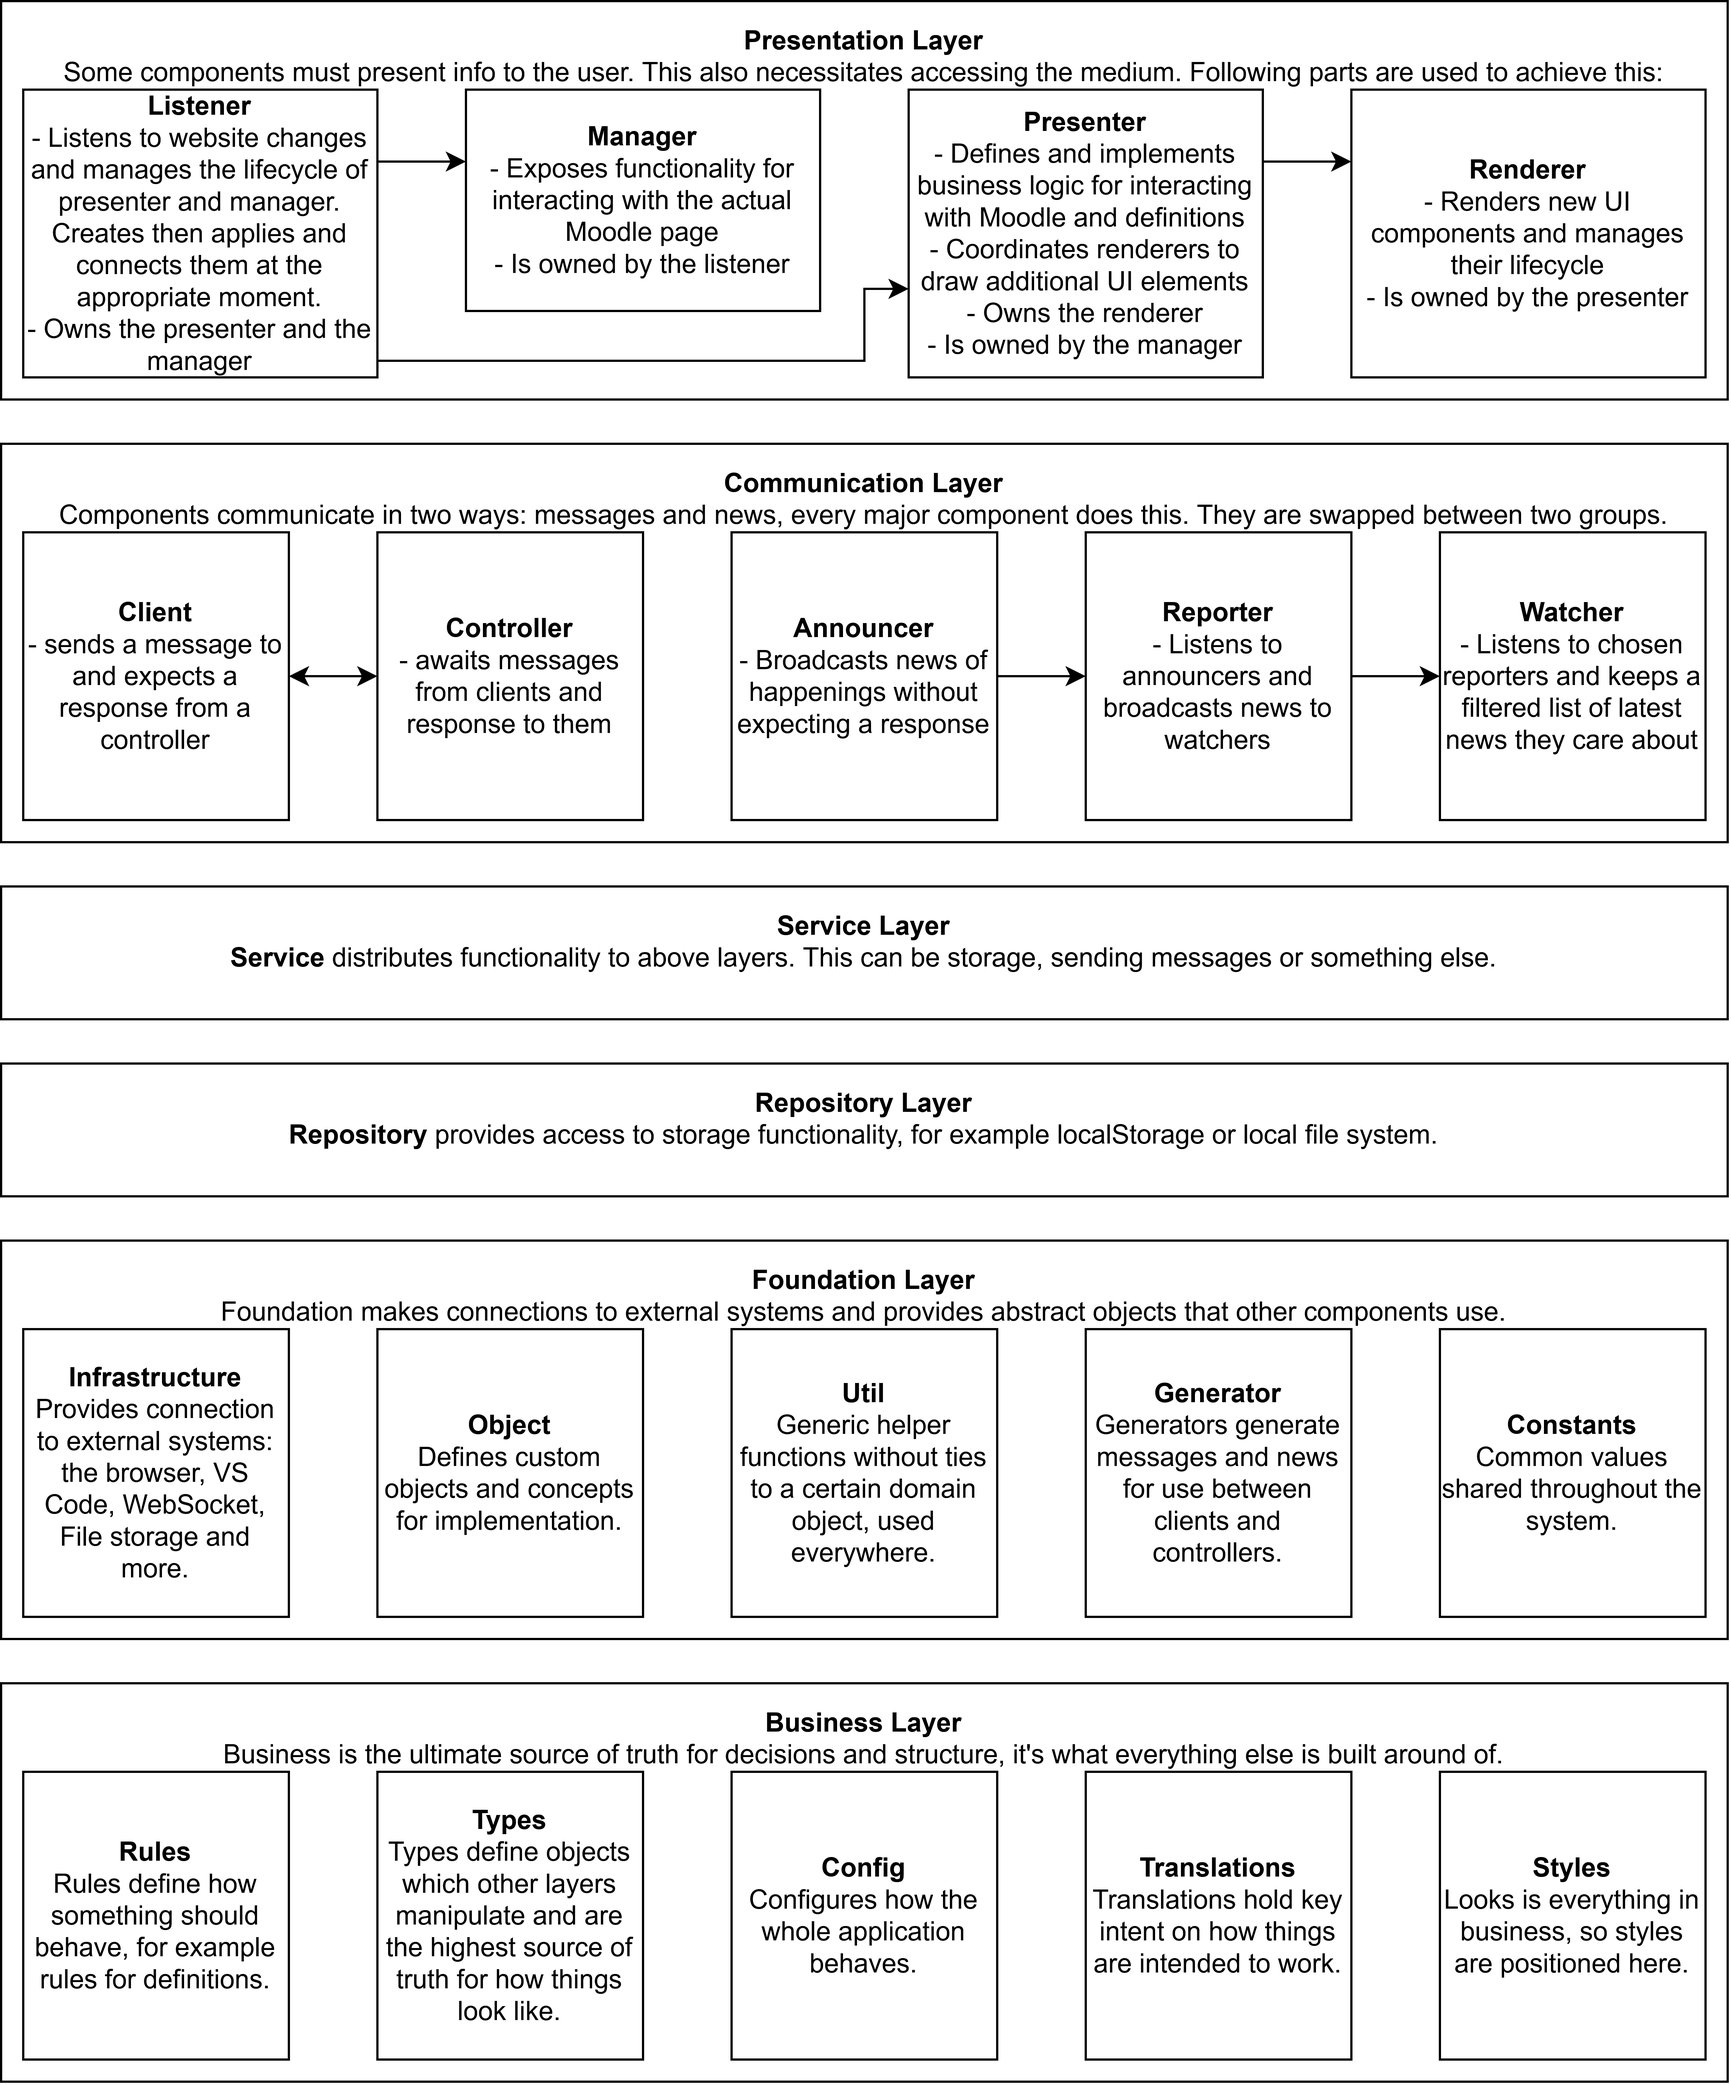
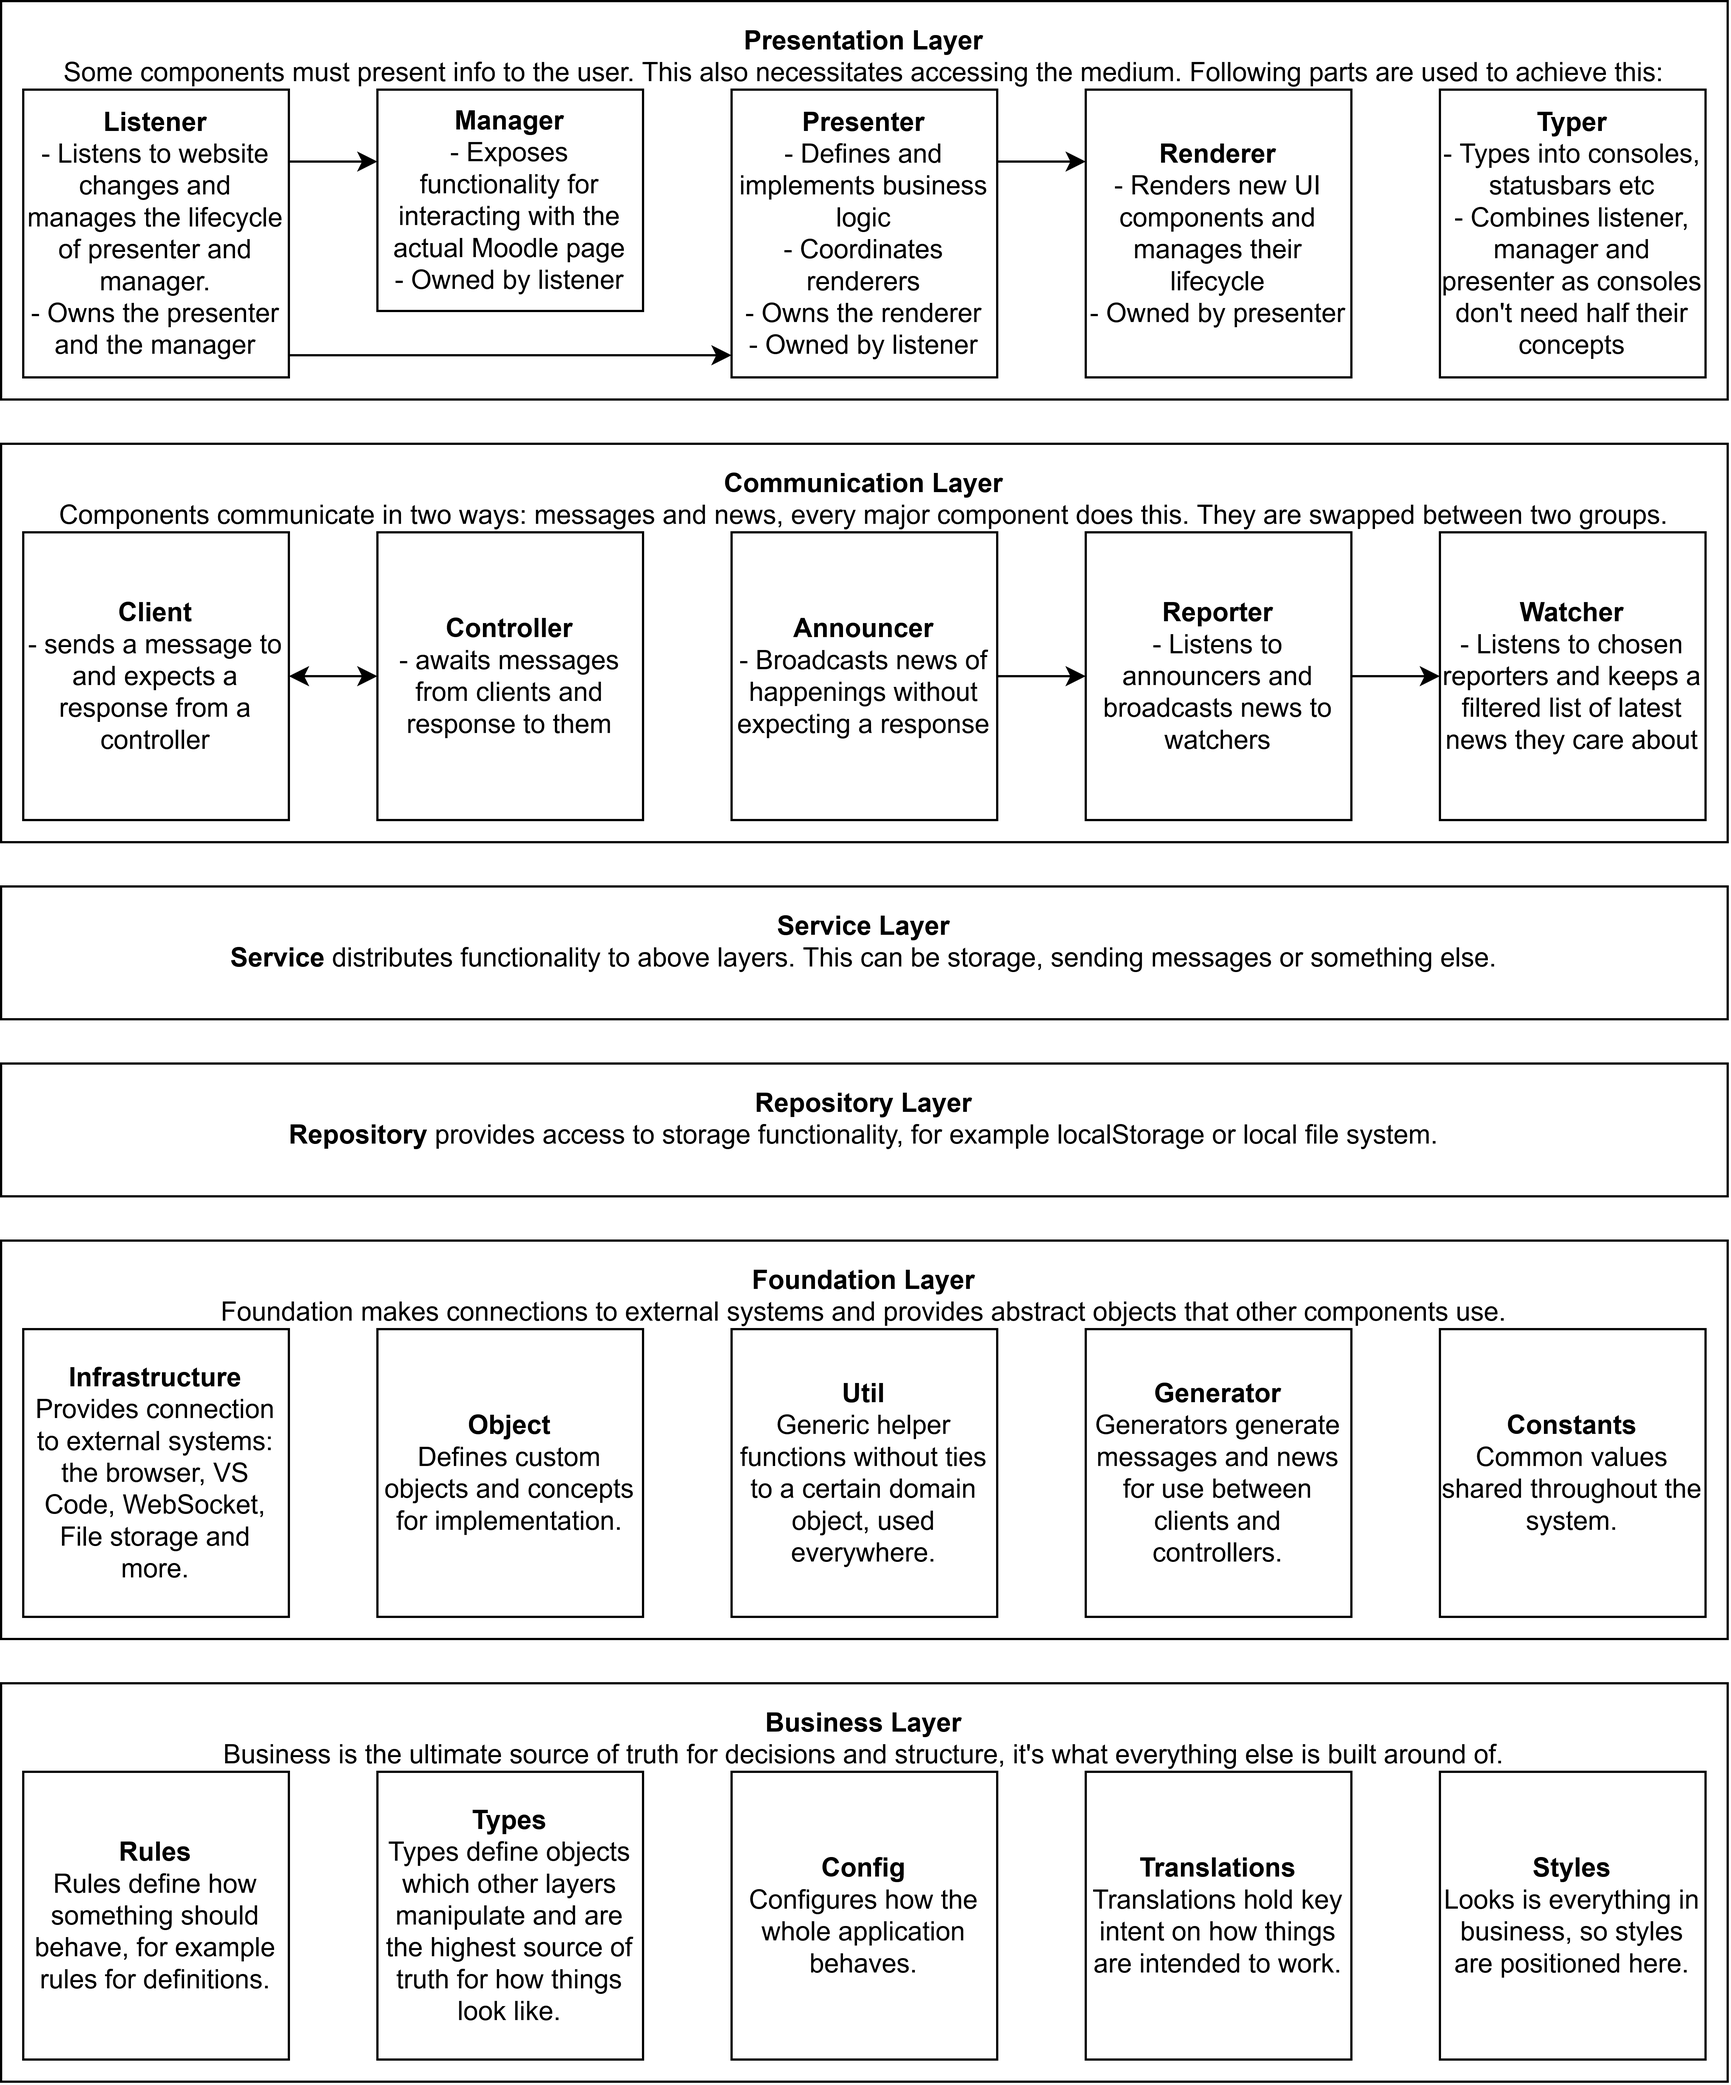
add poetry

Changed region(s): [[0.2178, 0.0311, 0.7779, 0.1868], [0.0311, 0.0311, 0.2178, 0.1868], [0.809, 0.0623, 0.9957, 0.1868]]

diff --git a/docs/architecture.md b/docs/architecture.md
@@ -61,7 +61,10 @@ Some layers involve many concepts inside them in a specific relationship, others
 
 ### 3.1 💞Presentation Layer💞
 Some components need to present info to the user. This also raises the necessity of accessing the page or other mediums.
-This is accomplished through following parts:
+This is done in two ways, one way for UI and other for text.
+
+#### UI Presentation
+UI presentation is accomplished through the following parts:
 
 Listener (presentation/listener):
 - Listens to website changes and manages lifecycle of presenter and manager. Creates then applies and connects them together at the appropriate moment.
@@ -77,6 +80,16 @@ Presenter (presentation/presenter):
 
 Renderer (presentation/renderer):
 - renders new ui components and manages their lifecycle
+
+#### Text Presentation
+
+Consoles, statusbars etc don't need a lot of what UI needs.
+They're immediately acceptable and don't need listening, there's really no overhead functionality to manage a simple console write call either. There's no need for a renderer either.
+Because of this, all of text presentation is handled with a single component:
+
+Typer
+- Types into consoles, statusbars etc
+- Combines listener, manager and presenter as consoles don't need half their concepts
 
 ### 3.2 ❤Communication Layer❤
 Components communicate with each other in two ways: messages and news.
